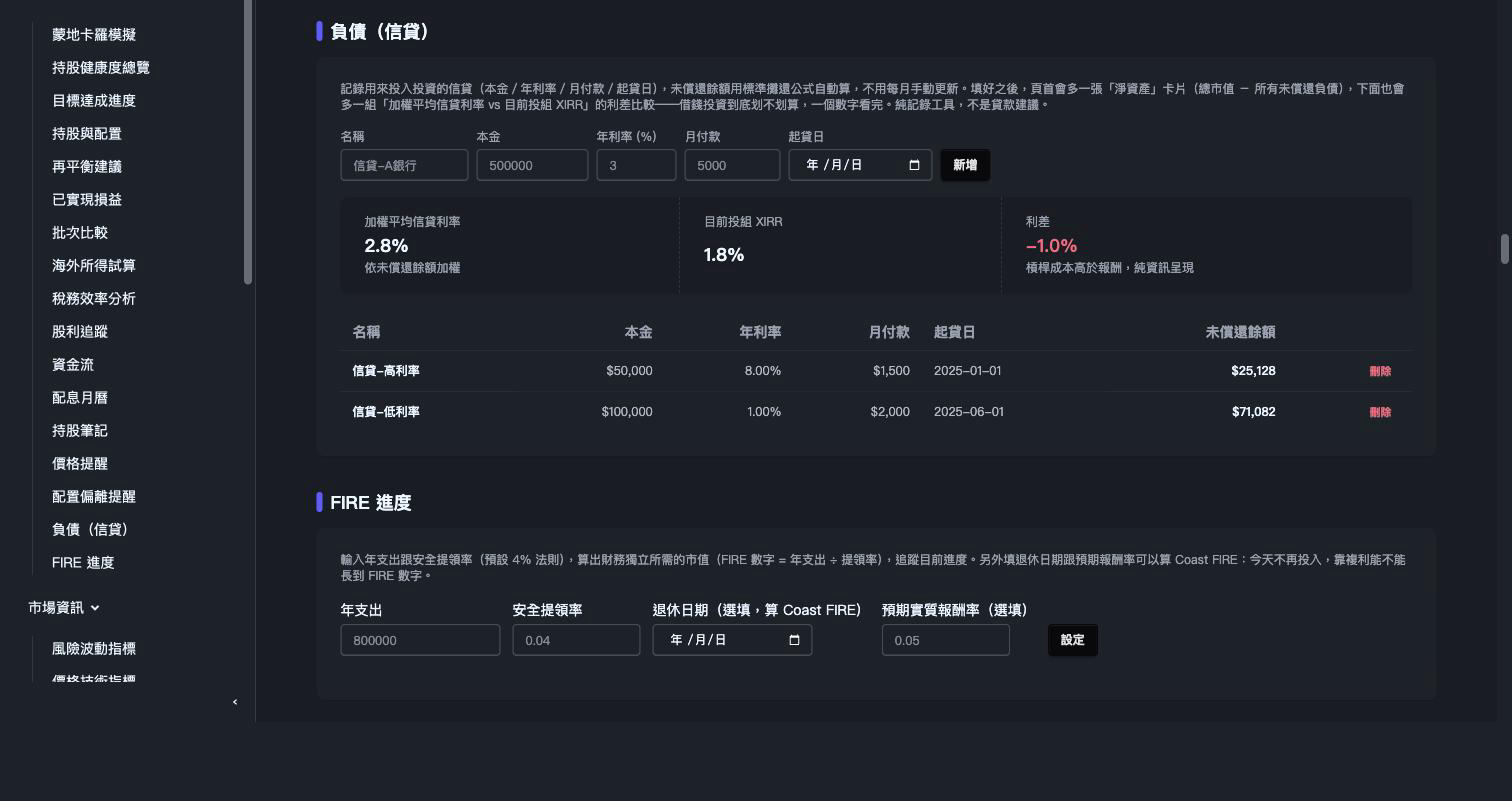
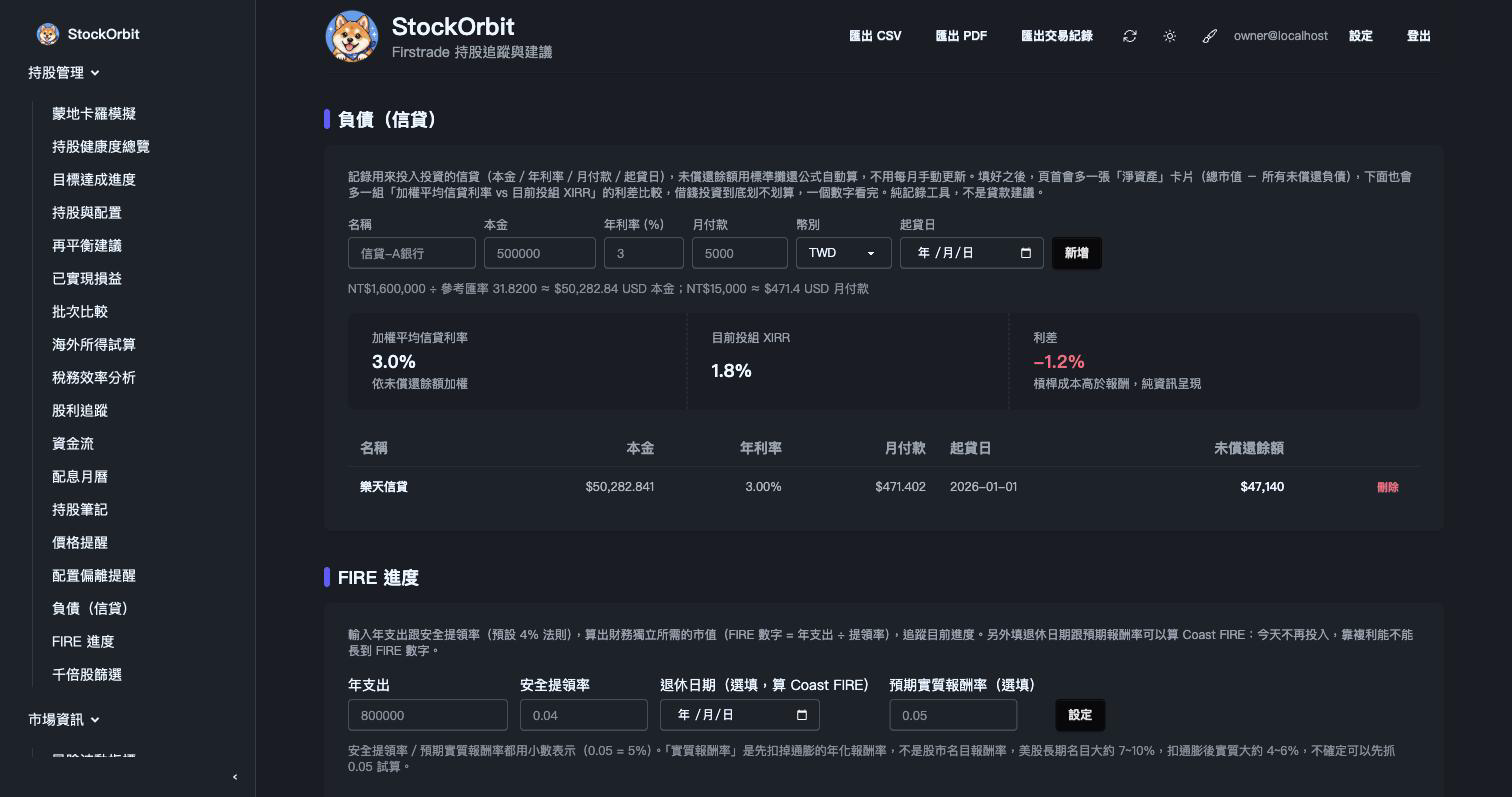
負債（信貸）支援新台幣輸入（issue #358） (#359)
本金跟月付款比照現金加碼／儲蓄率等既有功能的做法，新增幣別選單，選 TWD
時用最近一次同步時存的參考匯率自動換算成美金再送出，換算後金額顯示出
來供核對；組合內部（含未償還餘額）繼續一律用 USD 追蹤，沒有可用匯率時
擋下來提示改用 USD。

diff --git a/app/templates/sections/liabilities.html b/app/templates/sections/liabilities.html
@@ -24,11 +24,19 @@
           <input id="liability-payment" type="number" min="1" step="any" placeholder="5000" class="input input-bordered input-sm w-24">
         </div>
         <div>
+          <label class="text-xs opacity-60 block mb-1">幣別</label>
+          <select id="liability-currency" class="select select-bordered select-sm w-24">
+            <option value="USD">USD</option>
+            <option value="TWD">TWD</option>
+          </select>
+        </div>
+        <div>
           <label class="text-xs opacity-60 block mb-1">起貸日</label>
           <input id="liability-start" type="date" class="input input-bordered input-sm w-36">
         </div>
         <button type="button" onclick="addLiability()" class="btn btn-neutral btn-sm">新增</button>
       </div>
+      <div id="liability-converted" class="text-xs opacity-50 mt-1 hidden"></div>
       <div id="liability-error" class="alert alert-error text-sm hidden mt-2"></div>
       <div id="leverage-spread-content"></div>
       <div id="liability-content" class="mt-3"></div>
@@ -100,19 +108,41 @@ async function loadLiabilities() {
   renderLiabilityContext(data);
 }
 
+// 用最近一次同步時存的 USD/TWD 參考匯率（跟頁首「總市值 (TWD)」卡片、
+// 加碼現金的 TWD 選項同一個來源）換算，不是即時再打一次匯率 API - 組合
+// 內部（本金/月付款/未償還餘額）一律用 USD 追蹤，TWD 只是輸入時的方便。
+const liabilityUsdTwdRate = {{ stats.usd_twd_rate | default(none) | tojson }};
+
 async function addLiability() {
   const errorBox = document.getElementById('liability-error');
+  const convertedBox = document.getElementById('liability-converted');
   errorBox.classList.add('hidden');
+  convertedBox.classList.add('hidden');
 
   const name = document.getElementById('liability-name').value.trim();
-  const principal = document.getElementById('liability-principal').value;
+  const enteredPrincipal = parseFloat(document.getElementById('liability-principal').value);
   const ratePct = document.getElementById('liability-rate').value;
-  const payment = document.getElementById('liability-payment').value;
+  const enteredPayment = parseFloat(document.getElementById('liability-payment').value);
+  const currency = document.getElementById('liability-currency').value;
   const startDate = document.getElementById('liability-start').value;
-  if (!name || !principal || ratePct === '' || !payment || !startDate) {
+  if (!name || !enteredPrincipal || ratePct === '' || !enteredPayment || !startDate) {
     errorBox.textContent = '請填完整資訊';
     errorBox.classList.remove('hidden');
     return;
+  }
+
+  let principal = enteredPrincipal;
+  let payment = enteredPayment;
+  if (currency === 'TWD') {
+    if (!liabilityUsdTwdRate) {
+      errorBox.textContent = '目前沒有可用的參考匯率，換算不了，請改用 USD 輸入';
+      errorBox.classList.remove('hidden');
+      return;
+    }
+    principal = enteredPrincipal / liabilityUsdTwdRate;
+    payment = enteredPayment / liabilityUsdTwdRate;
+    convertedBox.textContent = `NT$${enteredPrincipal.toLocaleString('en-US')} ÷ 參考匯率 ${liabilityUsdTwdRate.toFixed(4)} ≈ $${principal.toLocaleString('en-US', {maximumFractionDigits: 2})} USD 本金；NT$${enteredPayment.toLocaleString('en-US')} ≈ $${payment.toLocaleString('en-US', {maximumFractionDigits: 2})} USD 月付款`;
+    convertedBox.classList.remove('hidden');
   }
 
   const body = new FormData();

diff --git a/CHANGELOG.md b/CHANGELOG.md
@@ -4,6 +4,10 @@
 
 摘要版功能總覽請看 [README](README.md#功能)。
 
+## 2026-10-02（負債/信貸支援新台幣輸入）
+
+- 使用者回報：樂天信貸的本金/月付款是新台幣，但這個功能只能填美金（issue #358）。本金跟月付款比照現金加碼／儲蓄率等既有功能的做法，新增幣別選單，選 TWD 時用最近一次同步時存的參考匯率自動換算成美金再送出，換算後金額顯示出來供核對；組合內部（含未償還餘額）繼續一律用 USD 追蹤，沒有可用匯率時擋下來提示改用 USD
+
 ## 2026-10-01（千倍股篩選新增「全市場搜尋」）
 
 - 使用者回報（issue #356）：千倍股篩選只能評分自己整理的清單（自選股/持股/Firstrade 清單），但原本的需求是「根據最新的狀況找到所有股票裡符合條件的」，應該要能掃全市場，不是只能套在自己的清單上。查了 yfinance 的 `EquityQuery` screener，發現它實際支援這次篩選用到的所有欄位（`grossprofitmargin.lasttwelvemonths`、`intradaymarketcap`、`totalrevenues1yrgrowth.lasttwelvemonths`、`pegratio_5y`），可以把四項門檻直接組成一個查詢丟給 Yahoo 的伺服器端篩選，不用自己抓全市場報價回來算。新增 `market_data.screen_equities()`（唯一 import yfinance 的地方，同既有慣例）跟 `moonshot.market_screen_symbols()`，新增 `/api/moonshot-market-screen` 端點，清單下拉選單多一個「全市場搜尋（符合全部 4 項）」選項。實測：3 秒內掃出真實的 4/4 候選名單（DHT、HASI、SEZL 等），確認可行
